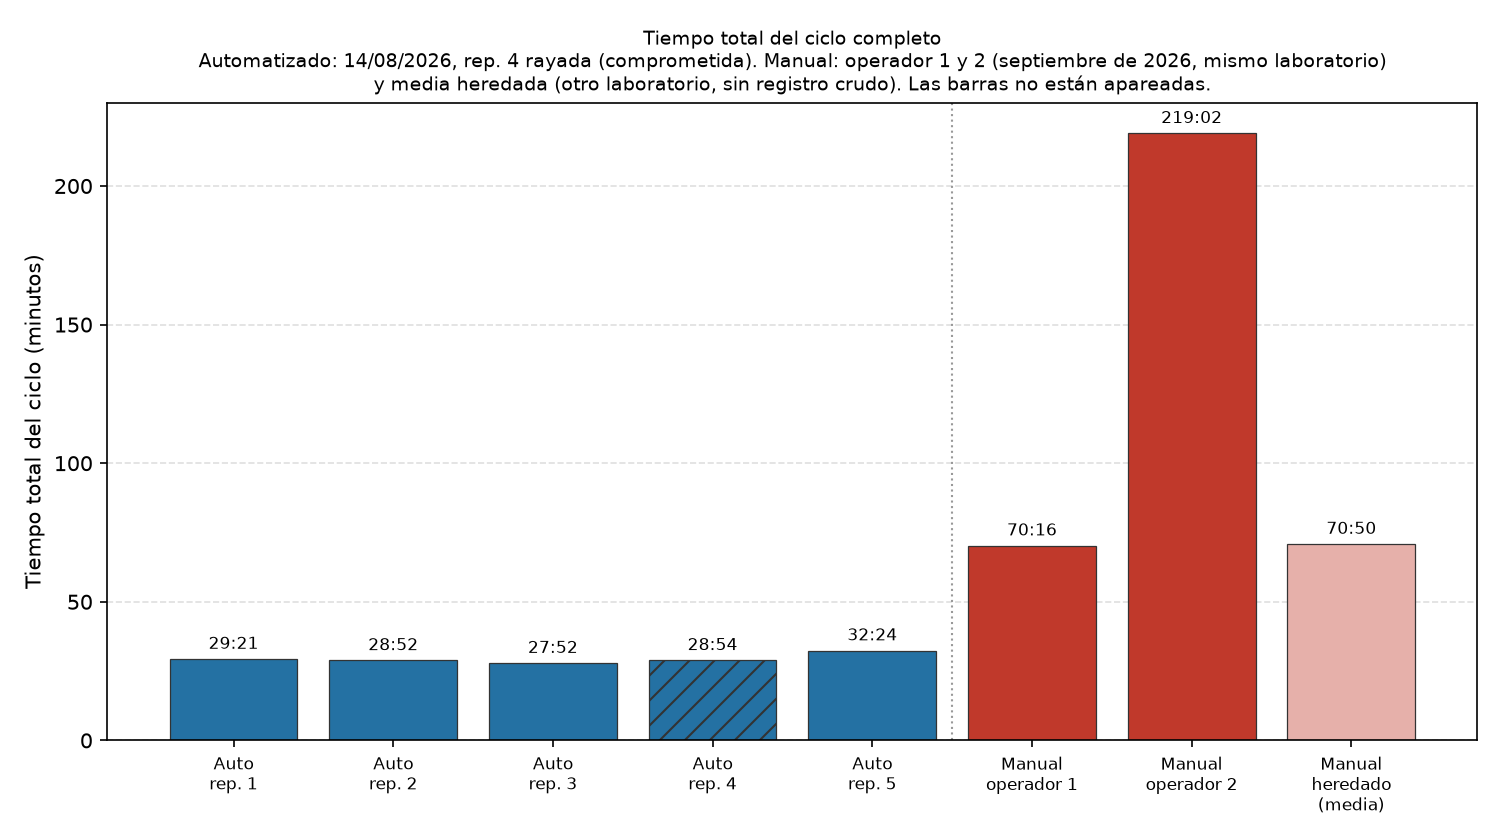
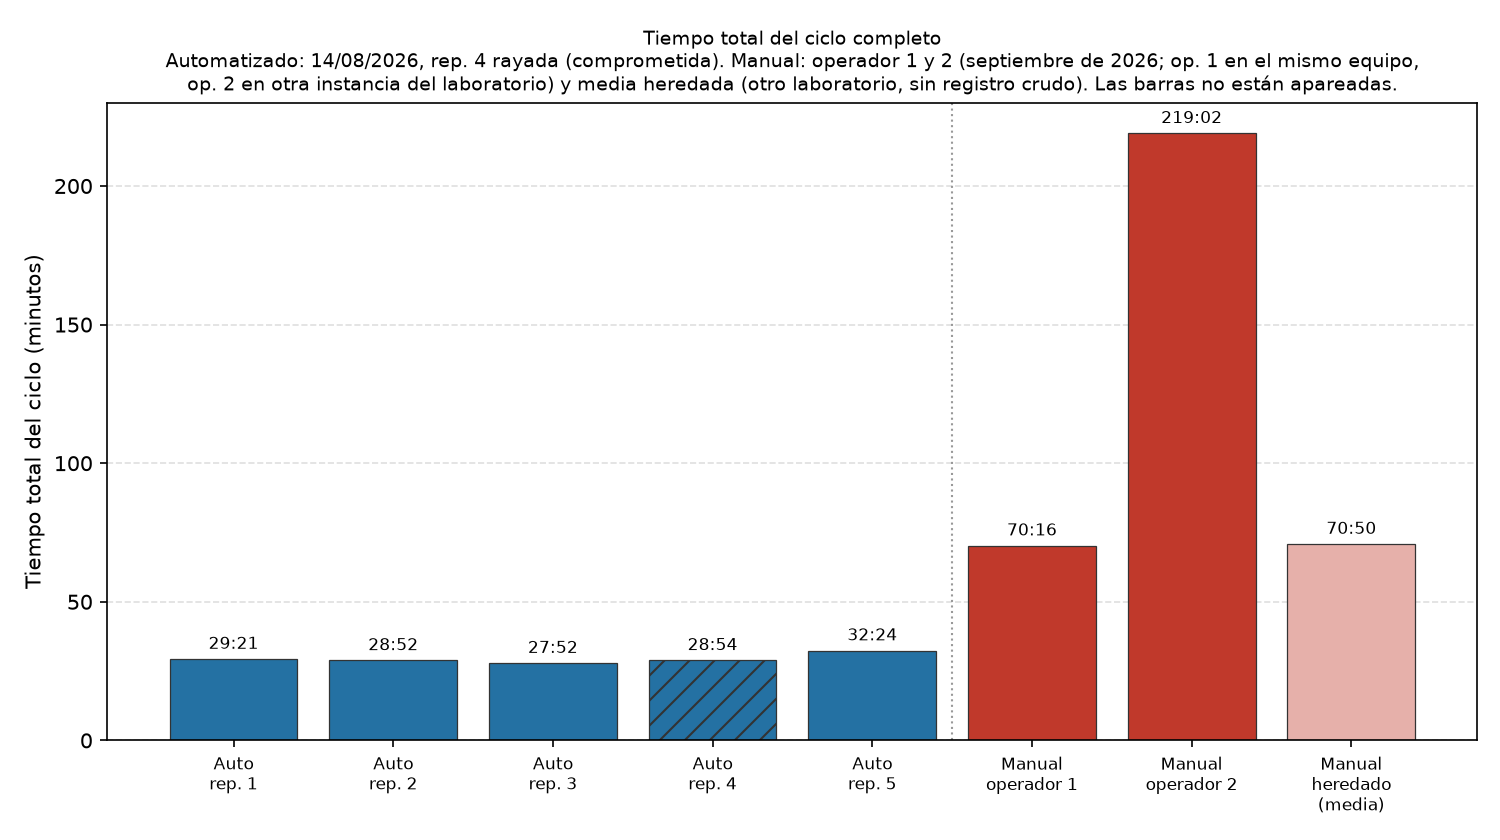
fix: la figura 8 no atribuye el mismo laboratorio al operador 2

Changed region(s): [[0.1227, 0.0619, 0.9507, 0.1238]]

diff --git a/docs/figures/gen_fig_tiempos.py b/docs/figures/gen_fig_tiempos.py
@@ -65,7 +65,7 @@ ax.set_xticklabels(labels, fontsize=8)
 ax.set_ylabel('Tiempo total del ciclo (minutos)')
 ax.set_title('Tiempo total del ciclo completo\n'
              'Automatizado: 14/08/2026, rep. 4 rayada (comprometida). Manual: operador 1 y 2 '
-             '(septiembre de 2026, mismo laboratorio)\ny media heredada (otro laboratorio, sin registro crudo). '
+             '(septiembre de 2026; op. 1 en el mismo equipo,\nop. 2 en otra instancia del laboratorio) y media heredada (otro laboratorio, sin registro crudo). '
              'Las barras no están apareadas.', fontsize=9)
 ax.grid(axis='y', linestyle='--', alpha=0.4)
 ax.set_axisbelow(True)
